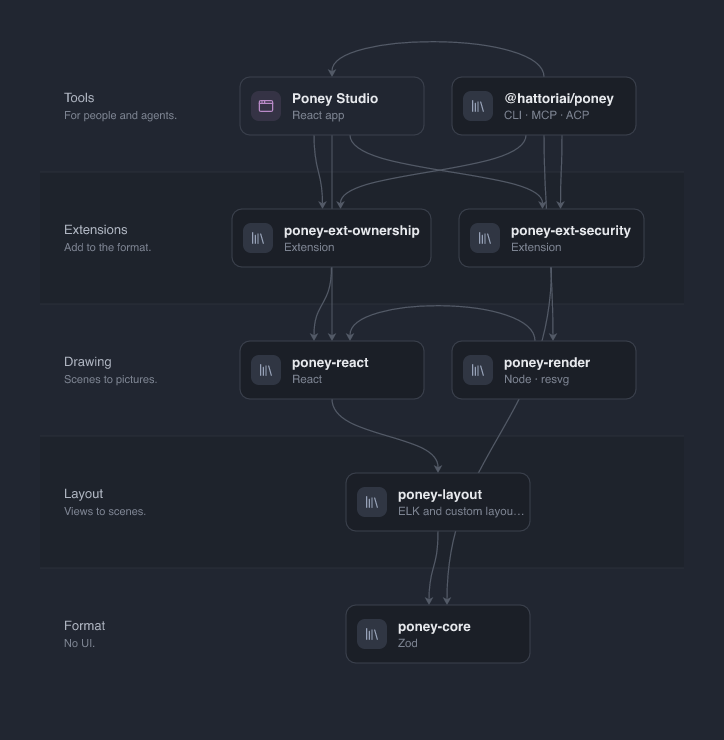
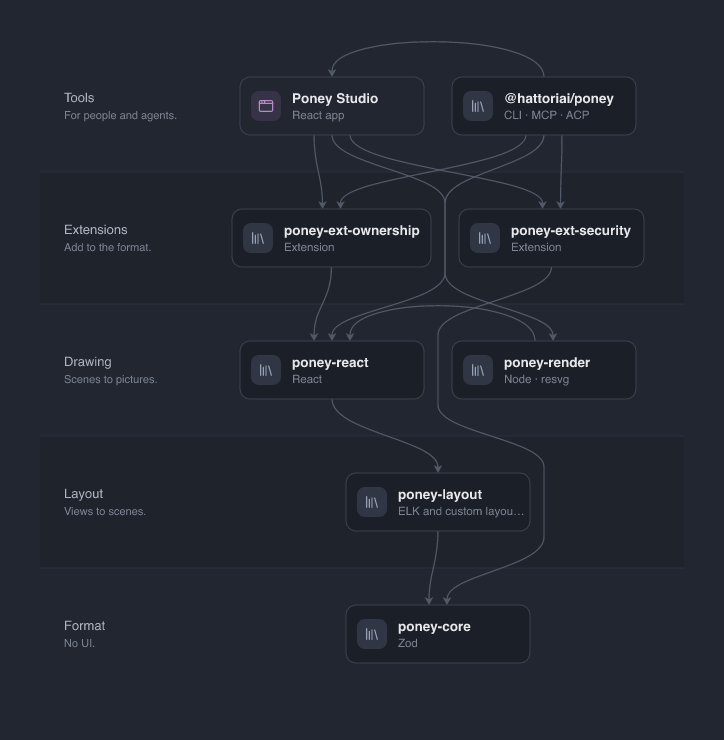
Dependency diagrams: a line that crosses several layers goes around the boxes
A line between layers that are not next to each other was one curve, so
it could pass behind a box in a layer between. It now goes down a free gap
in each layer it crosses, beside the lines already there. The renderer
draws the line as a chain of curves. A test samples every line of every
dependency view and fails if it enters a box that is not one of its ends.

diff --git a/packages/layout/src/dependency.ts b/packages/layout/src/dependency.ts
@@ -6,11 +6,14 @@ import type { Point, Rect, SceneBase } from './types'
  * Dependency layout: one horizontal band per layer, top to bottom. Nodes in
  * a band are ordered by the average position of what they connect to, which
  * removes most crossings. Edges are smooth curves, so they read as
- * "depends on" rather than as wires.
+ * "depends on" rather than as wires. An edge that crosses more than one
+ * band goes through a free gap between the nodes of each band it crosses,
+ * so it never passes behind a node.
  */
 export interface DependencyScene extends SceneBase {
   bands: (Rect & { id: string; label: string; description?: string })[]
   nodes: (Rect & { entityId: string; band: number })[]
+  /** Cubic Bézier segments, chained: start, then (control, control, end) for each segment. */
   edges: { id: string; source: string; target: string; kind: string; d: Point[]; direction: 'down' | 'up' | 'across' }[]
 }
 
@@ -18,6 +21,10 @@ const BAND_H = 132
 const LABEL_W = 168
 const NODE_H = 58
 const GAP = 28
+/** Space kept between an edge and a node it passes. */
+const CLEAR = 14
+/** Space between edges that share a gap. */
+const LANE = 9
 
 export function layoutDependency(doc: PoneyDocument, view: ViewOf<'dependency'>): DependencyScene {
   const idx = indexOf(doc)
@@ -95,22 +102,65 @@ export function layoutDependency(doc: PoneyDocument, view: ViewOf<'dependency'>)
     return n.x + n.w / 2 - span / 2 + (list.length > 1 ? (i / (list.length - 1)) * span : 0)
   }
 
+  // Free gaps in each band, and how many edges already pass through each.
+  const used = new Map<string, number>()
+  const gaps = rows.map((row) => {
+    const xs = row.map((id) => byId.get(id)!).sort((m, n) => m.x - n.x)
+    const out: { from: number; to: number }[] = []
+    let left = LABEL_W + 24 - GAP
+    for (const n of xs) {
+      out.push({ from: left + CLEAR, to: n.x - CLEAR })
+      left = n.x + n.w
+    }
+    out.push({ from: left + CLEAR, to: totalW - CLEAR })
+    return out.filter((g) => g.to >= g.from)
+  })
+  /** Where an edge crosses band b, near x: inside a free gap, beside the edges already there. */
+  const corridor = (b: number, x: number) => {
+    let best = { gap: 0, x, cost: Infinity }
+    gaps[b].forEach((g, i) => {
+      const at = Math.min(g.to, Math.max(g.from, x))
+      if (Math.abs(at - x) < best.cost) best = { gap: i, x: at, cost: Math.abs(at - x) }
+    })
+    const key = `${b}:${best.gap}`
+    const n = used.get(key) ?? 0
+    used.set(key, n + 1)
+    const g = gaps[b][best.gap]
+    // Later edges step aside, alternately right and left, staying in the gap.
+    const shifted = best.x + (n === 0 ? 0 : (n % 2 ? 1 : -1) * Math.ceil(n / 2) * LANE)
+    return Math.min(g.to, Math.max(g.from, shifted))
+  }
+  /** A vertical curve from p to q, leaving and arriving straight. */
+  const curve = (p: Point, q: Point): Point[] => {
+    const k = Math.max(20, Math.abs(q.y - p.y) * 0.45) * (q.y >= p.y ? 1 : -1)
+    return [{ x: p.x, y: p.y + k }, { x: q.x, y: q.y - k }, q]
+  }
+
   const edges: DependencyScene['edges'] = plan.map(({ r, a, b, direction, out, inn }) => {
     const p0 = { x: portX(r.source, out, r.id, b), y: out === 'bottom' ? a.y + a.h : a.y }
     const p3 = { x: portX(r.target, inn, r.id, a), y: inn === 'top' ? b.y : b.y + b.h }
-    let c1: Point
-    let c2: Point
     if (direction === 'across') {
       const lift = 46
-      c1 = { x: p0.x, y: p0.y - lift }
-      c2 = { x: p3.x, y: p3.y - lift }
-    } else {
-      const k = Math.max(40, Math.abs(p3.y - p0.y) * 0.45)
-      const s = direction === 'down' ? 1 : -1
-      c1 = { x: p0.x, y: p0.y + k * s }
-      c2 = { x: p3.x, y: p3.y - k * s }
+      return { id: r.id, source: r.source, target: r.target, kind: r.kind, d: [p0, { x: p0.x, y: p0.y - lift }, { x: p3.x, y: p3.y - lift }, p3], direction }
     }
-    return { id: r.id, source: r.source, target: r.target, kind: r.kind, d: [p0, c1, c2, p3], direction }
+    // Through each band between the two, straight down a free gap, past the nodes' top and bottom.
+    const s = direction === 'down' ? 1 : -1
+    const between: number[] = []
+    for (let k = a.band + s; k !== b.band; k += s) between.push(k)
+    const d: Point[] = [p0]
+    let at = p0
+    between.forEach((k, i) => {
+      const t = (i + 1) / (between.length + 1)
+      const x = corridor(k, p0.x + (p3.x - p0.x) * t)
+      const top = k * BAND_H + (BAND_H - NODE_H) / 2 - 6
+      const bottom = top + NODE_H + 12
+      const enter = { x, y: s > 0 ? top : bottom }
+      const exit = { x, y: s > 0 ? bottom : top }
+      d.push(...curve(at, enter), { x, y: enter.y + (exit.y - enter.y) / 3 }, { x, y: enter.y + ((exit.y - enter.y) * 2) / 3 }, exit)
+      at = exit
+    })
+    d.push(...curve(at, p3))
+    return { id: r.id, source: r.source, target: r.target, kind: r.kind, d, direction }
   })
 
   const anchors: Record<string, Rect> = {}

diff --git a/packages/react/src/diagrams/dependency/index.tsx b/packages/react/src/diagrams/dependency/index.tsx
@@ -92,17 +92,27 @@ function Renderer({ scene, view }: { scene: DependencyScene; view: View }) {
         const up = focus?.userEdges.has(e.id)
         const groupHot = focus?.group && (focus.deps.has(e.source) || focus.deps.has(e.target))
         const color = down ? DOWN : up ? UP : groupHot ? 'var(--poney-ink-2)' : 'var(--poney-ink-4)'
-        const [p0, c1, c2, p3] = e.d
+        // The edge is a chain of cubic segments; the arrow sits on the last one.
+        const p3 = e.d[e.d.length - 1]
+        const c2 = e.d[e.d.length - 2]
         const angle = Math.atan2(p3.y - c2.y, p3.x - c2.x)
         const back = ls.head === 'triangle' ? 10 : 6
         const end = { x: p3.x - Math.cos(angle) * back, y: p3.y - Math.sin(angle) * back }
+        const path = (last: { x: number; y: number }) => {
+          let d = `M ${e.d[0].x} ${e.d[0].y}`
+          for (let i = 1; i + 2 < e.d.length; i += 3) {
+            const to = i + 2 === e.d.length - 1 ? last : e.d[i + 2]
+            d += ` C ${e.d[i].x} ${e.d[i].y} ${e.d[i + 1].x} ${e.d[i + 1].y} ${to.x} ${to.y}`
+          }
+          return d
+        }
         const dim = focus && !down && !up && !groupHot
         const rel = idx.relationships.get(e.id)
         return (
           <g key={e.id} {...bind({ kind: 'relationship', id: e.id }, `${idx.entities.get(e.source)?.name} ${rel?.kind === 'implements' ? 'implements' : 'depends on'} ${idx.entities.get(e.target)?.name}`)} className={`poney-el ${dim ? 'poney-dim' : ''}`}>
-            <path d={`M ${p0.x} ${p0.y} C ${c1.x} ${c1.y} ${c2.x} ${c2.y} ${p3.x} ${p3.y}`} fill="none" stroke="transparent" strokeWidth={12} />
+            <path d={path(p3)} fill="none" stroke="transparent" strokeWidth={12} />
             <path
-              d={`M ${p0.x} ${p0.y} C ${c1.x} ${c1.y} ${c2.x} ${c2.y} ${end.x} ${end.y}`}
+              d={path(end)}
               fill="none"
               stroke={color}
               strokeWidth={down || up ? 1.9 : 1.2}

diff --git a/packages/layout/src/dependency.test.ts b/packages/layout/src/dependency.test.ts
@@ -1,0 +1,45 @@
+import { readFileSync } from 'node:fs'
+import { describe, expect, it } from 'vitest'
+import { parseDocument, type PoneyDocument } from '@hattoriai/poney-core'
+import { commerce } from '@hattoriai/poney-examples'
+import { ownership } from '@hattoriai/poney-ext-ownership'
+import { layoutDependency } from './dependency'
+import type { Point } from './types'
+
+const docs: [string, PoneyDocument][] = [
+  ['Kestrel', parseDocument(commerce, { extensions: [ownership] })],
+  ['Poney', parseDocument(JSON.parse(readFileSync(new URL('../../../docs/poney/poney.poney', import.meta.url), 'utf8')))],
+]
+
+/** Points along a chain of cubic segments. */
+function sample(d: Point[]): Point[] {
+  const out: Point[] = []
+  for (let i = 0; i + 3 < d.length; i += 3) {
+    const [a, b, c, e] = d.slice(i, i + 4)
+    for (let t = 0; t <= 1; t += 0.02) {
+      const u = 1 - t
+      out.push({
+        x: u * u * u * a.x + 3 * u * u * t * b.x + 3 * u * t * t * c.x + t * t * t * e.x,
+        y: u * u * u * a.y + 3 * u * u * t * b.y + 3 * u * t * t * c.y + t * t * t * e.y,
+      })
+    }
+  }
+  return out
+}
+
+describe('dependency layout', () => {
+  for (const [name, doc] of docs)
+    for (const view of doc.views.filter((v) => v.type === 'dependency'))
+      it(`${name} ${view.id}: no edge passes behind a node`, () => {
+        const scene = layoutDependency(doc, view as never)
+        for (const e of scene.edges) {
+          expect((e.d.length - 1) % 3).toBe(0)
+          const others = scene.nodes.filter((n) => n.entityId !== e.source && n.entityId !== e.target)
+          for (const p of sample(e.d))
+            for (const n of others) {
+              const inside = p.x > n.x + 2 && p.x < n.x + n.w - 2 && p.y > n.y + 2 && p.y < n.y + n.h - 2
+              expect(inside, `${e.id} passes behind ${n.entityId} at ${Math.round(p.x)},${Math.round(p.y)}`).toBe(false)
+            }
+        }
+      })
+})
